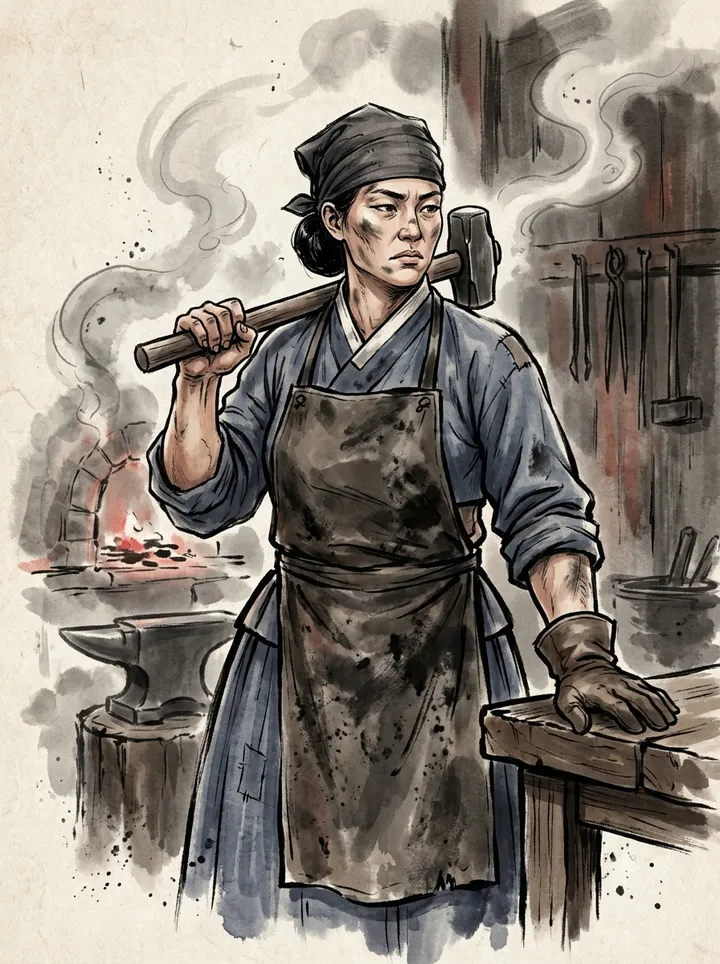
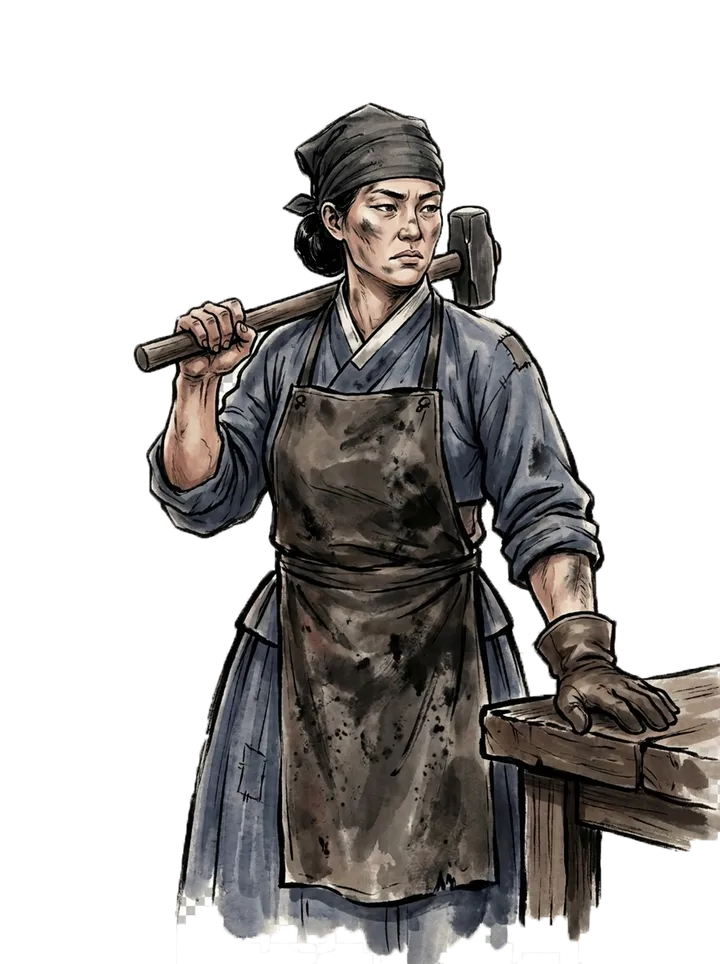
동업자 배경·요괴 본모습·소환진 이미지 반영 (v0.3.0)

diff --git a/src/ui/circles.ts b/src/ui/circles.ts
@@ -1,7 +1,17 @@
 /**
- * 소환진 5종 도형 (임시 에셋). 동업자의 확정 도형(circle-*.png)이 오면 교체한다.
+ * 소환진 5종 도형 (대체용 SVG). 동업자 도형(circle-*.webp)이 있으면 circleSvg가 그것을 먼저 쓴다.
  * 명세 4-5의 형태 단서를 따르며, 보호 문양이 아닌 "뒤집힌" 불길한 문양으로 그린다.
  */
+import { circleSrc } from './assets';
+
+const NAME: Record<string, string> = {
+  blood_five: '혈오방진',
+  reverse_bagua: '역팔괘진',
+  black_seven: '흑칠성진',
+  reverse_rope: '역금줄진',
+  ghost_gate: '귀문구궁진',
+};
+
 const INK = 'var(--ink-line)';
 const BLOOD = 'var(--blood)';
 
@@ -129,5 +139,8 @@ const DRAW: Record<string, () => string> = {
 };
 
 export function circleSvg(valueId: string): string {
+  const img = circleSrc(valueId);
+  if (img)
+    return `<img class="circle-svg circle-img" src="${img}" alt="${NAME[valueId] ?? '소환진'}" loading="lazy" width="256" height="256"/>`;
   return (DRAW[valueId] ?? bloodFive)();
 }

diff --git a/src/ui/assets.ts b/src/ui/assets.ts
@@ -62,3 +62,13 @@ export function suspectPortrait(id: string, form: 'human' | 'yokai' = 'human', c
     <span class="yokai-name brush" aria-hidden="true">${s.yokai}</span>
   </span>`;
 }
+
+// 진 값 id → 동업자 도형 파일 (역팔괘진은 파일명이 reverse-eight)
+const CIRCLE_FILE: Record<string, string> = { reverse_bagua: 'reverse-eight' };
+
+/** 소환진 도형 이미지. 없으면 null → 코드로 그린 SVG를 쓴다. */
+export function circleSrc(valueId: string): string | null {
+  const name = CIRCLE_FILE[valueId] ?? valueId.replace(/_/g, '-');
+  const p = `images/circles/circle-${name}.webp`;
+  return files.has(p) ? p : null;
+}

diff --git a/playwright.config.ts b/playwright.config.ts
@@ -10,6 +10,7 @@ export default defineConfig({
     trace: 'on-first-retry',
     // 로컬에 설치된 Chrome을 쓰려면 PW_CHANNEL=chrome
     channel: process.env.PW_CHANNEL || undefined,
+    launchOptions: process.env.PW_EXE ? { executablePath: process.env.PW_EXE } : undefined,
   },
   projects: [
     { name: 'desktop', use: { ...devices['Desktop Chrome'], viewport: { width: 1600, height: 900 } } },

diff --git a/docs/credits.md b/docs/credits.md
@@ -6,10 +6,12 @@
 
 | 에셋 | 제작자 | 도구 | 외부 자료·출처 | 생성형 AI 사용 | 상태 |
 | --- | --- | --- | --- | --- | --- |
-| 캐릭터 일러스트 10종 (`characters/`) | (기입 필요) | (기입 필요) | (기입 필요) | (기입 필요) | 러프 — 확정 여부 확인 필요 |
+| 캐릭터 일러스트 10종 (`characters/*-v2.png`, 투명 배경) + 요괴 본모습 5종 (`characters/*-yokai.png`) | 동업자 (기입 필요) | (기입 필요) | (기입 필요) | (기입 필요) | 게임에 적용됨 — 요괴 본모습은 배경이 포함된 그림 |
+| 장면 배경 14종 (`backgrounds/`) | 동업자 (기입 필요) | (기입 필요) | (기입 필요) | (기입 필요) | 게임에 적용됨 |
+| 소환진 도형 5종 (`ui-assets/circle-*.png`) | 동업자 (기입 필요) | (기입 필요) | (기입 필요) | (기입 필요) | 게임에 적용됨 |
 | UI 시안 4종 (`ui-mockups/`) | (기입 필요) | (기입 필요) | (기입 필요) | (기입 필요) | 구현 참고용 |
-| 소환진 도형 5종 | 개발 (SVG 코드로 그린 임시 에셋, `src/ui/circles.ts`) | — | — | 아니오 | 임시 |
-| 배경 연출 (달, 안개, 티끌) | 개발 (Phaser로 생성한 임시 에셋, `src/scenes/fx.ts`) | — | — | 아니오 | 임시 |
+| 소환진 SVG 5종 | 개발 (`src/ui/circles.ts`) | — | — | 아니오 | 동업자 도형이 없을 때만 쓰는 대체용 |
+| 배경 연출 (달, 안개, 티끌) | 개발 (Phaser로 생성, `src/scenes/fx.ts`) | — | — | 아니오 | 배경 그림 위에 겹치는 효과 |
 
 ## 폰트
 
@@ -36,3 +38,7 @@
 ## 콘텐츠 고지 (게임 내 표시)
 
 이 게임에 등장하는 진과 주술은 실제 의례를 재현한 것이 아닌 창작이며, 모든 인물은 가상입니다.
+
+## 확인 필요
+
+- 배경·요괴·소환진 이미지 다수의 오른쪽 아래에 작은 별(✦) 표시가 남아 있다. 생성 도구의 워터마크로 보이므로 도구, 약관(상업적 이용·재배포), 표시 의무를 동업자에게 확인하고 위 표를 채운다. 확인 전에는 출시하지 않는다.

diff --git a/CHANGELOG.md b/CHANGELOG.md
@@ -1,5 +1,17 @@
 # 변경 기록
 
+## v0.3.0 — 2026-11-06
+
+동업자 이미지(배경·요괴 본모습·소환진) 반영.
+
+- 장면 배경 14종 적용 (`backgrounds/` → `public/images/backgrounds/*.webp`): 고을 어귀·사당·결계 문·옥사·처형장·새벽·밤·사건 장소 5곳·엔딩 2종
+- 요괴 본모습 5종 적용 (`characters/*-yokai.png`): 처형 연출·엔딩의 임시 효과를 그림으로 교체
+- 캐릭터 10종을 투명 배경 v2(`*-default-v2.png`, 1600×2000)로 교체. 변환 스크립트는 v2가 있으면 이전 파일을 건너뛴다
+- 소환진 5종 적용 (`ui-assets/circle-*.png` → `public/images/circles/`): 사건 일지·컷신의 진 도형. 파일이 없으면 기존 SVG를 쓴다
+- `convert-assets.mjs`에 소환진 변환 추가, `sync-assets.mjs` manifest에 circles 포함
+- 변환된 WebP를 저장소에 포함 (Netlify/Vercel 빌드는 sharp 변환 없이 `public/`을 그대로 쓴다)
+- `playwright.config.ts`: `PW_EXE`로 브라우저 실행 파일 지정 가능
+
 ## v0.2.2 — 2026-11-05
 
 - 대사 음성(TTS) 삭제: 프롤로그 해설, 대사, 사건 일지·심문 보고, 구속 항변을 모두 대사창·말풍선 자막으로만 연출
